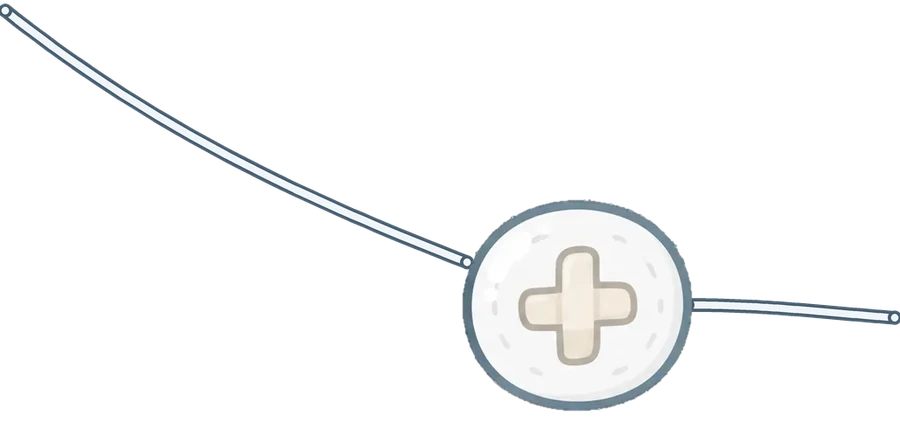
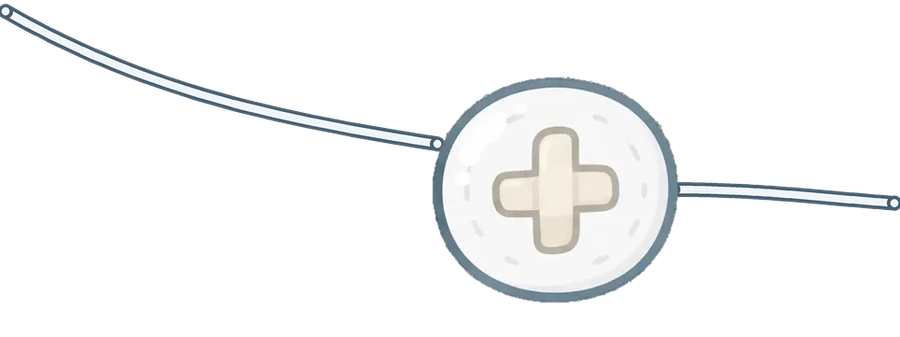
Revert "顔のかざり:眼帯の左のひもを頭までのばす(未公開。ゲームには未反映)"
This reverts commit e77b196f5c4168ee3878bf85f19a858f701d616a.

Changed region(s): [[0.0, 0.0, 1.0, 0.9496], [0.56, 0.3264, 0.5911, 0.3561]]

diff --git a/tools/illust/export.py b/tools/illust/export.py
@@ -217,7 +217,7 @@ def strap_mask(img, reach=0.5):
     return canvas, (0.5, 0.5)
 
 
-def strap_eyepatch(img, left=2.0, right=0.9, rise=1.1, outline=None, inner=(240, 245, 249)):
+def strap_eyepatch(img, left=1.75, right=0.9, rise=0.55, outline=None, inner=(240, 245, 249)):
     """眼帯に、ひもを つける(線のように、1本ずつ。顔の画面から、はみ出さない長さ):右は、ほぼ水平に、画面のはしまで。左は、ななめに のぼって、画面の左上まで。
     戻り値の2つ目は、眼帯の中心が、絵のどこ(はば・高さの割合)にあるか"""
     k = 4

diff --git a/docs/decisions.md b/docs/decisions.md
@@ -822,4 +822,3 @@ scheme.md の「未定の事項」を決めたらここに追記する。
 - まだ作っていないこと(決まっていない):ルールのムービーへの追加、ご褒美(着せ替え)の条件への追加、間違えた問題をノート(復習待ち)に入れること、宝箱マスの数や位置の調整。
 - **着せ替えは、ちがう かざり なら、同じ場所(頭・体・顔)に、いくつでも重ねて付けられる**:押すと付く・もういちど押すとはずれる・「なし」は、その種類をぜんぶはずす。保存の形は、頭・体・顔が、id の配列になった(前の1つだけの保存も読める。badges.js の loadDress)。重なりの順は、体→頭→顔、その中は、付けた順。重なりすぎ(帽子を2つ、など)は、止めていない。Edge で確かめた。
 - (その60のつづき4)利用者の指示:**眼帯の右のひもは、前の長さ(ヘルメットのはしまで)にもどした**(左は、顔の画面の左上まで)。**サングラス**は、**横はばだけ**1.25倍(`STRETCH`。高さは同じ)。
-- (その60のつづき5)利用者の指示:**眼帯の左のひもは、あたま(ヘルメットの左上)までのばした**(顔の画面を ななめに よこぎって、左上のはしまで。右は、ヘルメットのはしまで)。
